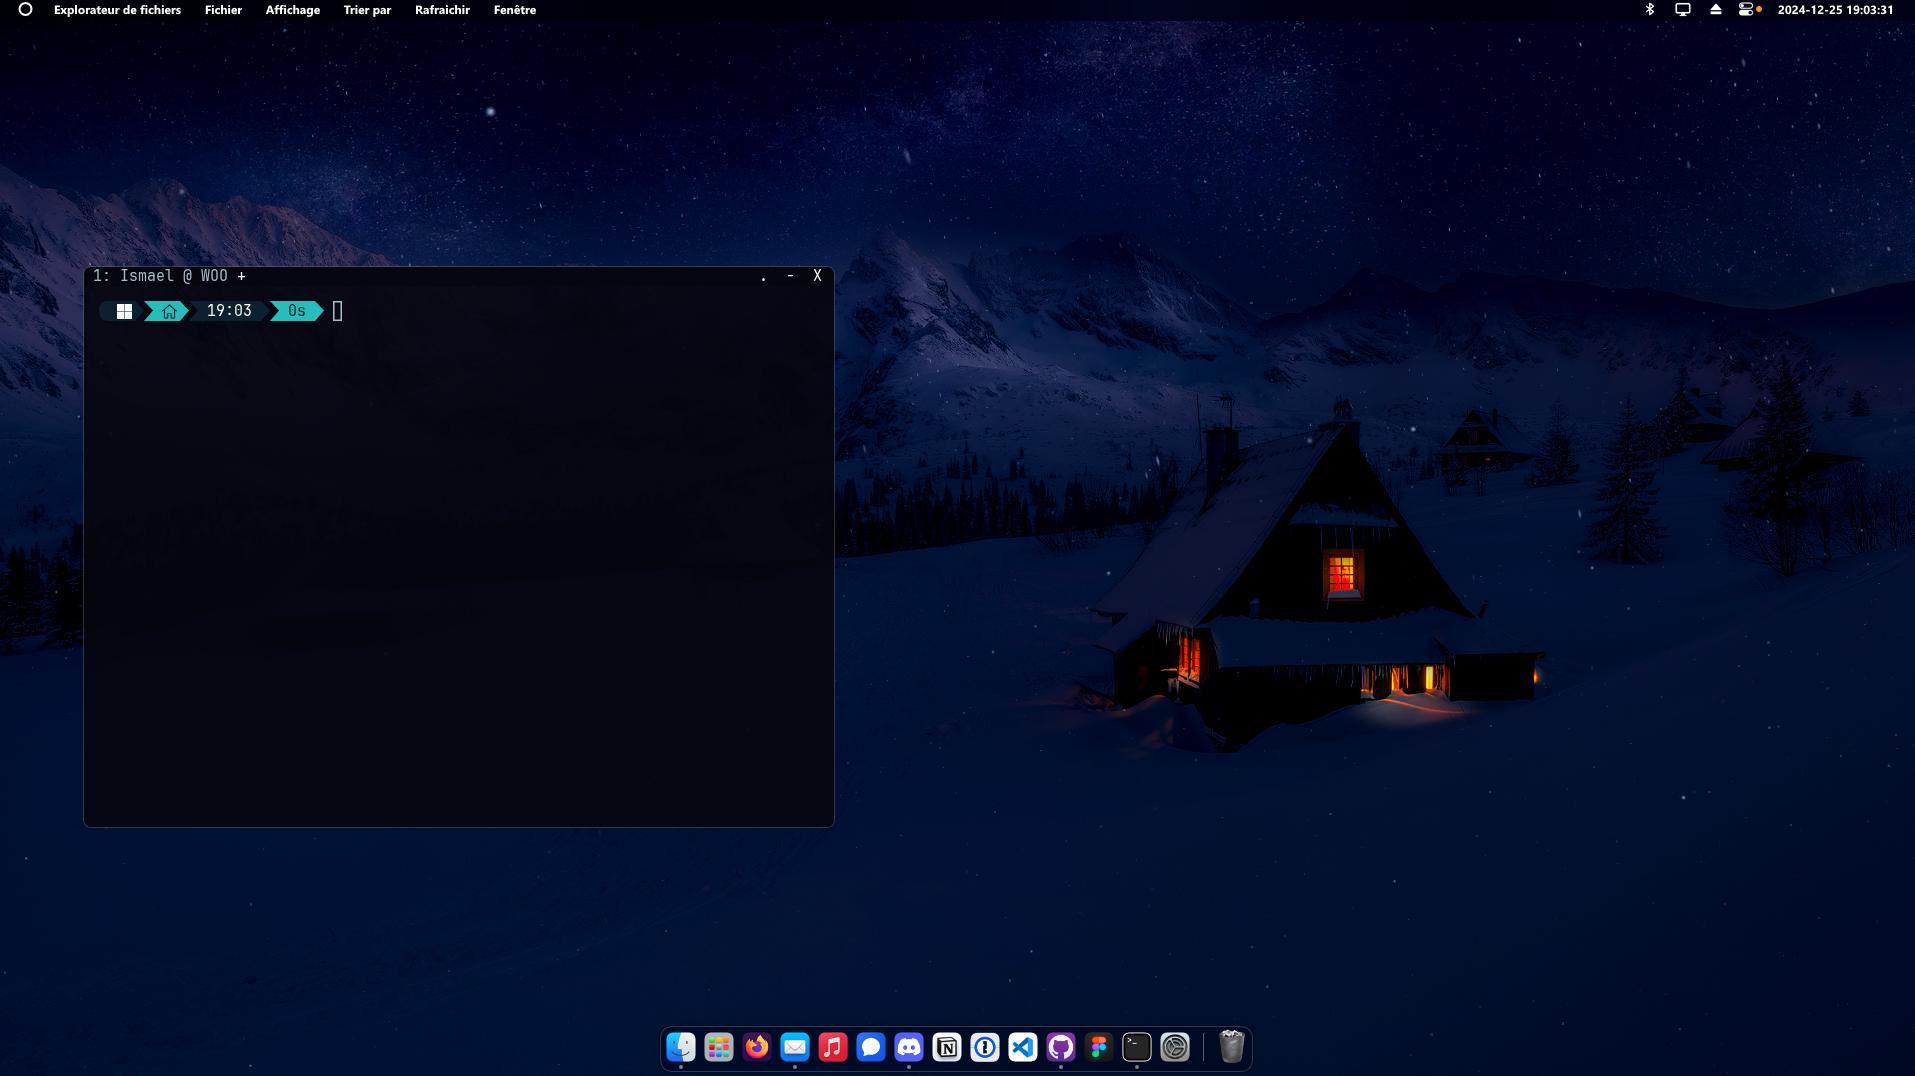
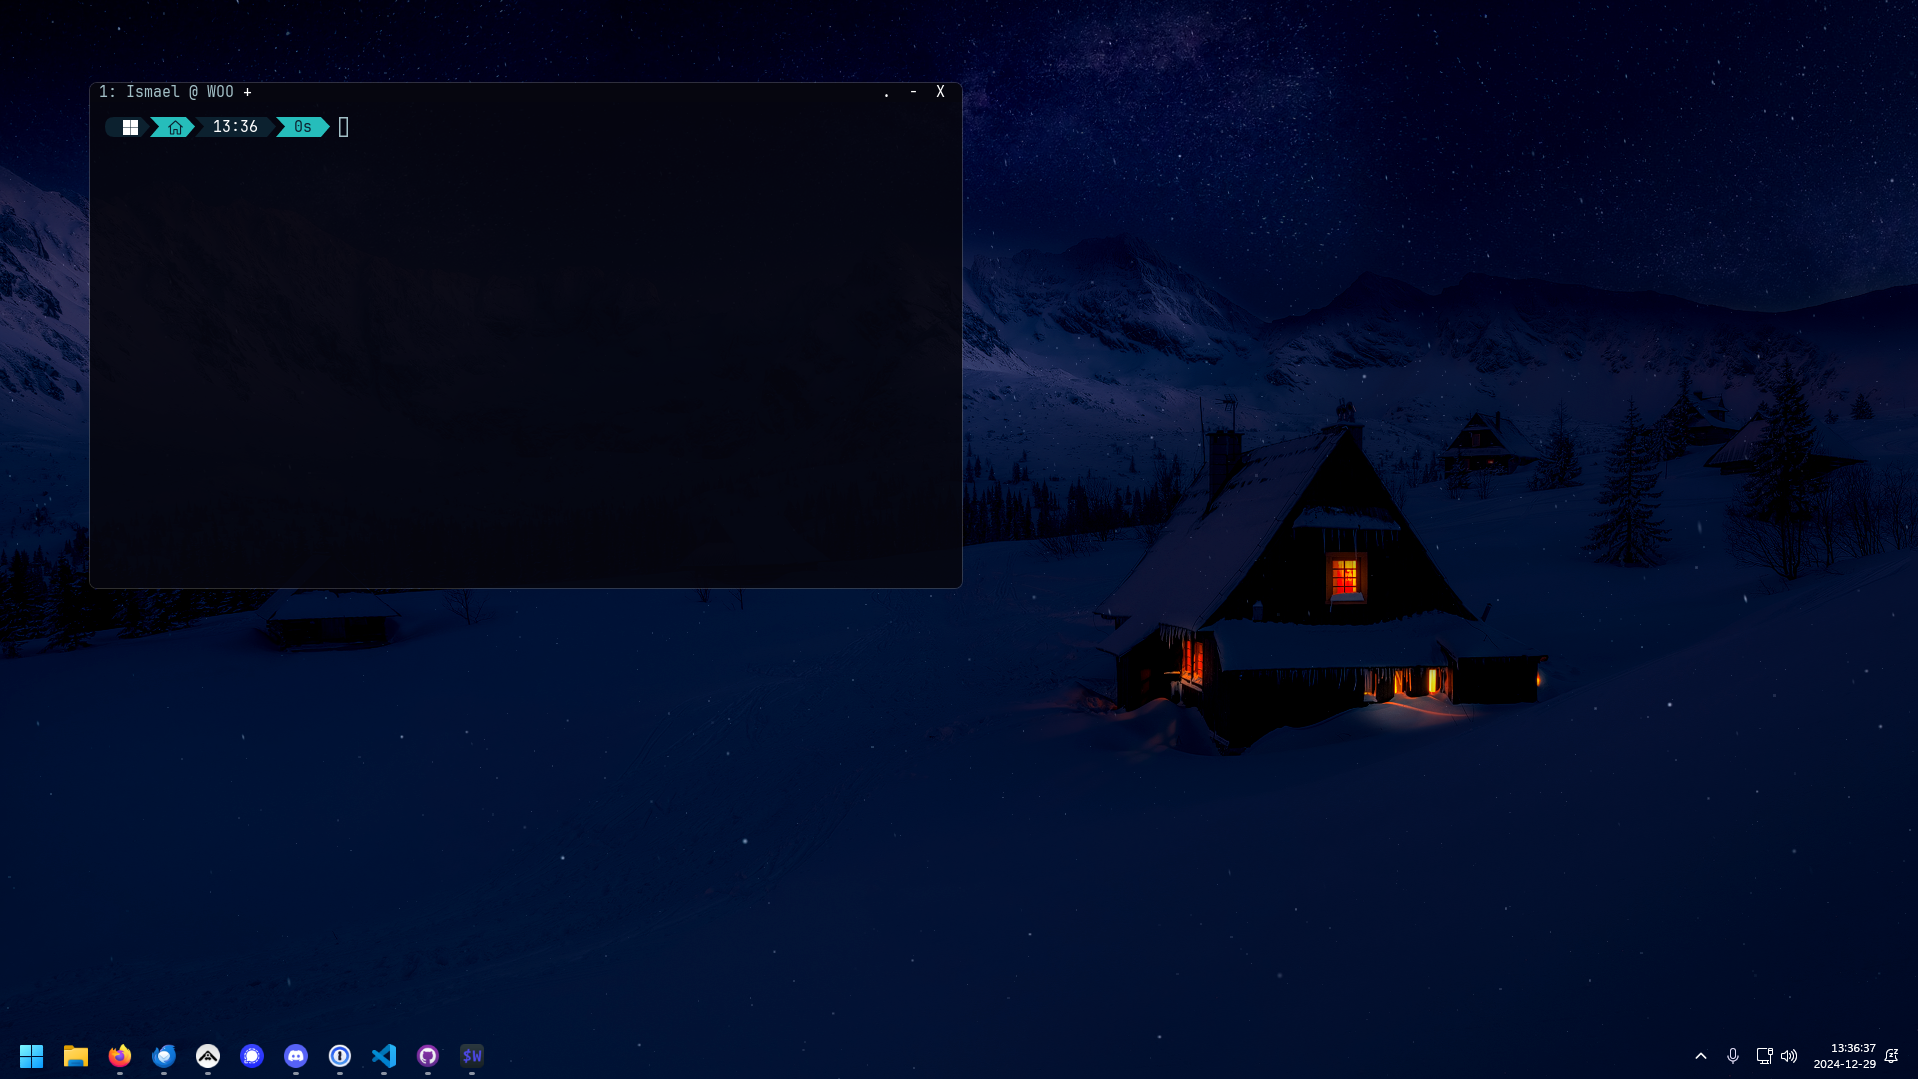
Taskbar

diff --git a/README.md b/README.md
@@ -13,8 +13,8 @@ I use a custom cursor from [this](https://github.com/antiden/macOS-cursors-for-W
 2. Install with Install.inf. (Right-click on Install.inf and click Install)
 3. Go to Settings > Devices > Mouse > Additional mouse options > Pointers > Browse and select the cursor you want.
 
-## MyDockFinder
-I use MyDockFinder to make the topbar and the dock look like macos. You can download it [here](https://store.steampowered.com/app/1787090/MyDockFinder/).
+## Taskbar
+I use TranslucentTB to make the taskbar transparent. You can download it [here](https://github.com/TranslucentTB/TranslucentTB).
 
 ## Windows Manager
 I use FancyZones from [PowerToys](https://github.com/microsoft/PowerToys) to manage windows.
